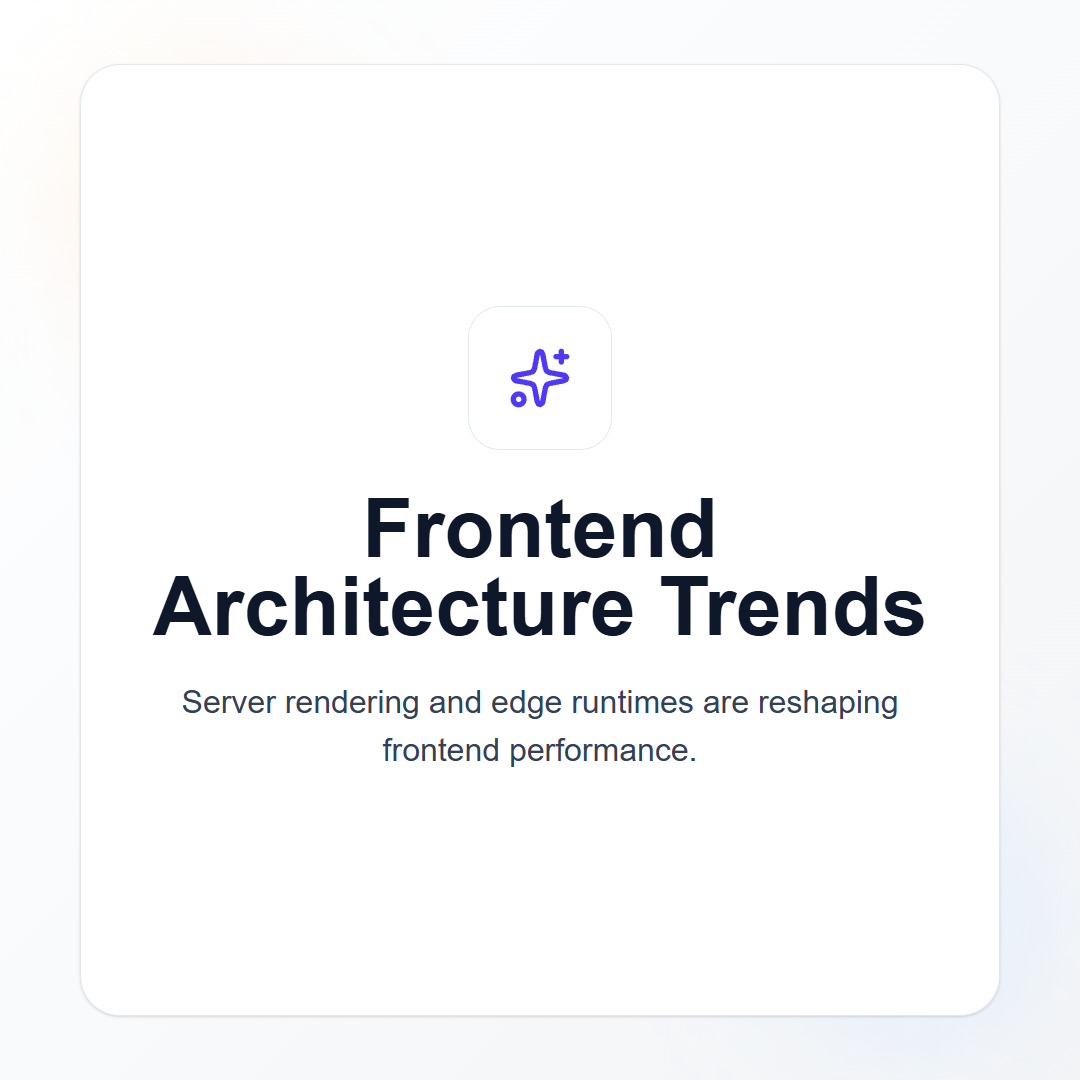
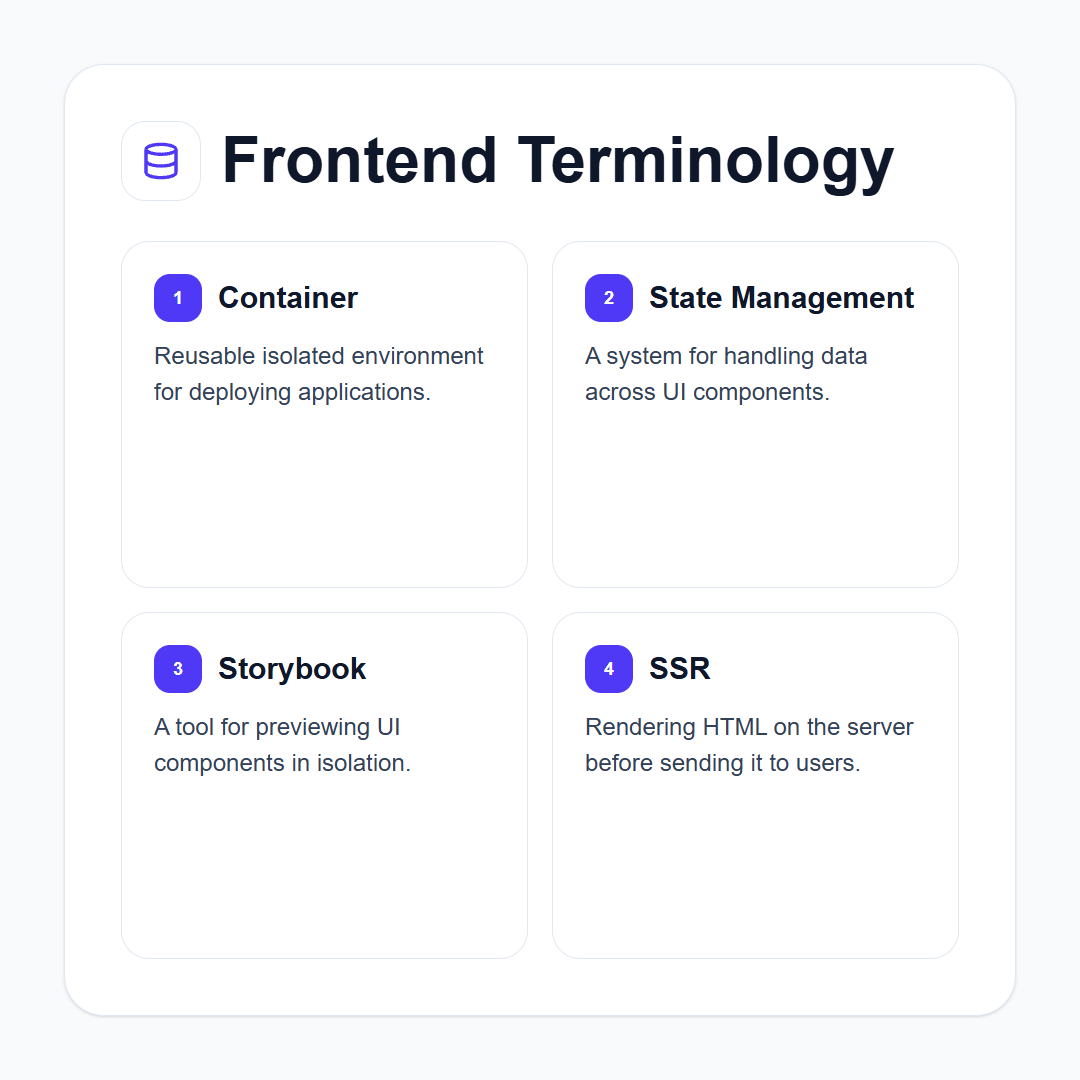
added terminology

diff --git a/renderer/src/templates/TerminologySlide.jsx b/renderer/src/templates/TerminologySlide.jsx
@@ -1,0 +1,61 @@
+export default function TerminologySlide({
+  title,
+  terms = [],
+  icon: Icon,
+  theme,
+}) {
+  return (
+    <div
+      className={`w-full h-[1080px] overflow-hidden relative p-16 ${theme.background}`}
+    >
+      <div
+        className={`w-full h-full rounded-[40px] p-14 flex flex-col ${theme.card} ${theme.shadow}`}
+      >
+        {/* Header */}
+        <div className="flex items-center gap-5 mb-10">
+          {Icon && (
+            <div
+              className={`w-20 h-20 rounded-3xl flex items-center justify-center ${theme.section} ${theme.border}`}
+            >
+              <Icon className={`w-10 h-10 ${theme.accent}`} />
+            </div>
+          )}
+
+          <h1 className={`text-[64px] leading-[1.05] font-bold ${theme.title}`}>
+            {title}
+          </h1>
+        </div>
+
+        {/* Terms Grid */}
+        <div className="grid grid-cols-2 gap-6 flex-1">
+          {terms.map((item, index) => (
+            <div
+              key={index}
+              className={`rounded-[28px] p-8 flex flex-col gap-4 ${theme.section} ${theme.border}`}
+            >
+              <div className="flex items-center gap-4">
+                <div
+                  className={`w-12 h-12 rounded-2xl flex items-center justify-center ${theme.accentBg}`}
+                >
+                  <span className="text-white text-lg font-bold">
+                    {index + 1}
+                  </span>
+                </div>
+
+                <h2
+                  className={`text-[30px] font-bold leading-[1.2] ${theme.title}`}
+                >
+                  {item.term}
+                </h2>
+              </div>
+
+              <p className={`text-[24px] leading-[1.5] ${theme.body}`}>
+                {item.definition}
+              </p>
+            </div>
+          ))}
+        </div>
+      </div>
+    </div>
+  );
+}

diff --git a/renderer/src/templates/index.js b/renderer/src/templates/index.js
@@ -4,6 +4,7 @@ import TitleLeftBodyRight from "./TitleLeftBodyRight";
 import TitleTopIconCenter from "./TitleTopIconCenter";
 import FullBackgroundImageOverlayText from "./FullBackgroundImageOverlayText";
 import BestPracticesSlide from "./BestPracticesSlide";
+import TerminologySlide from "./TerminologySlide";
 
 export const layoutMap = {
   "centered-title-centered-body": CenteredTitleCenteredBody,
@@ -12,4 +13,5 @@ export const layoutMap = {
   "title-top-icon-center": TitleTopIconCenter,
   "full-background-image-overlay-text": FullBackgroundImageOverlayText,
   "best-practices": BestPracticesSlide,
+  terminology: TerminologySlide,
 };

diff --git a/renderer/src/App.jsx b/renderer/src/App.jsx
@@ -28,6 +28,7 @@ export default function App() {
           practices={slide.practices}
           highlight={slide.highlight}
           cta={slide.cta}
+          terms={slide.terms}
           icon={IconComponent}
           theme={ThemeComponent}
           accentColor={slide.accentColor}
